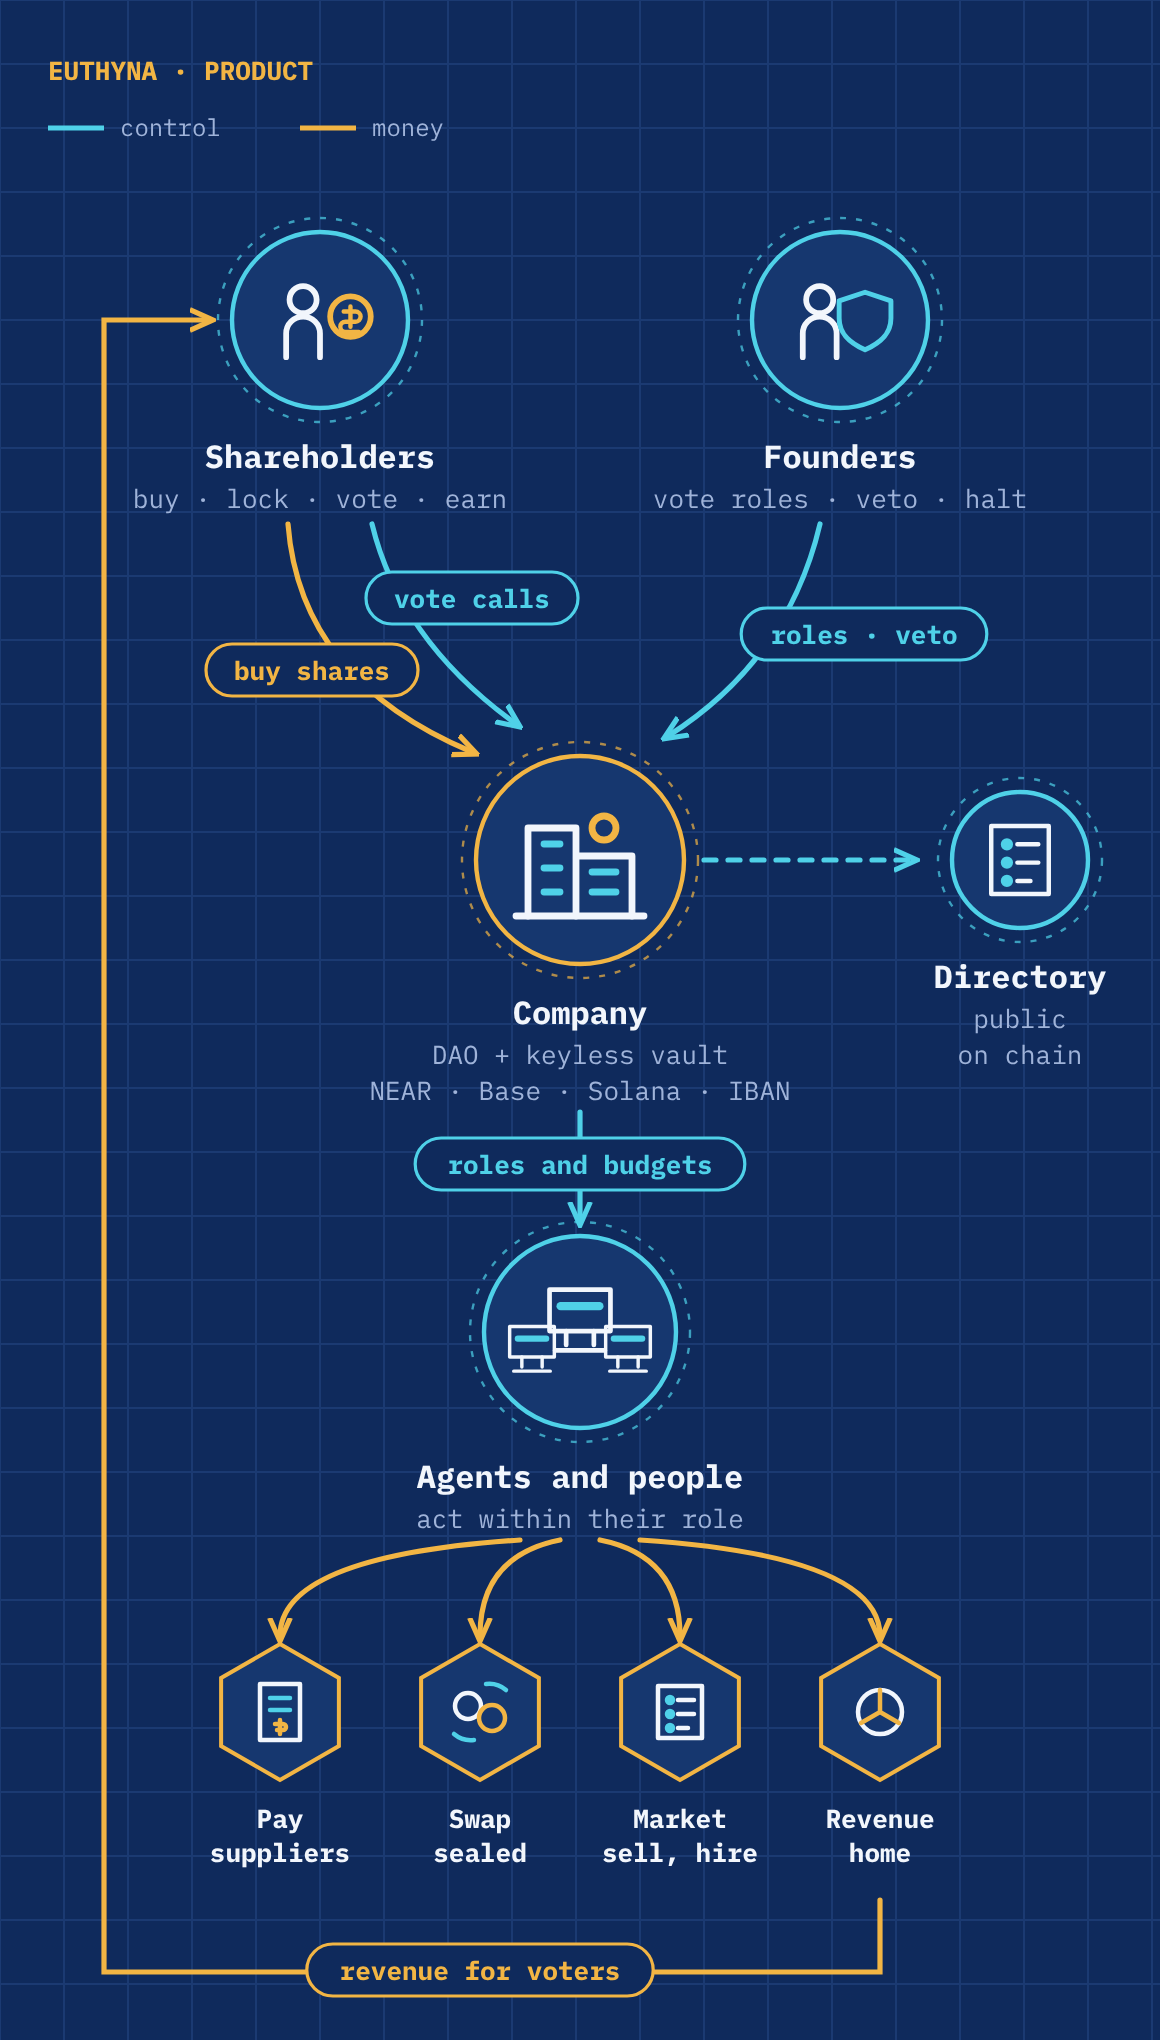
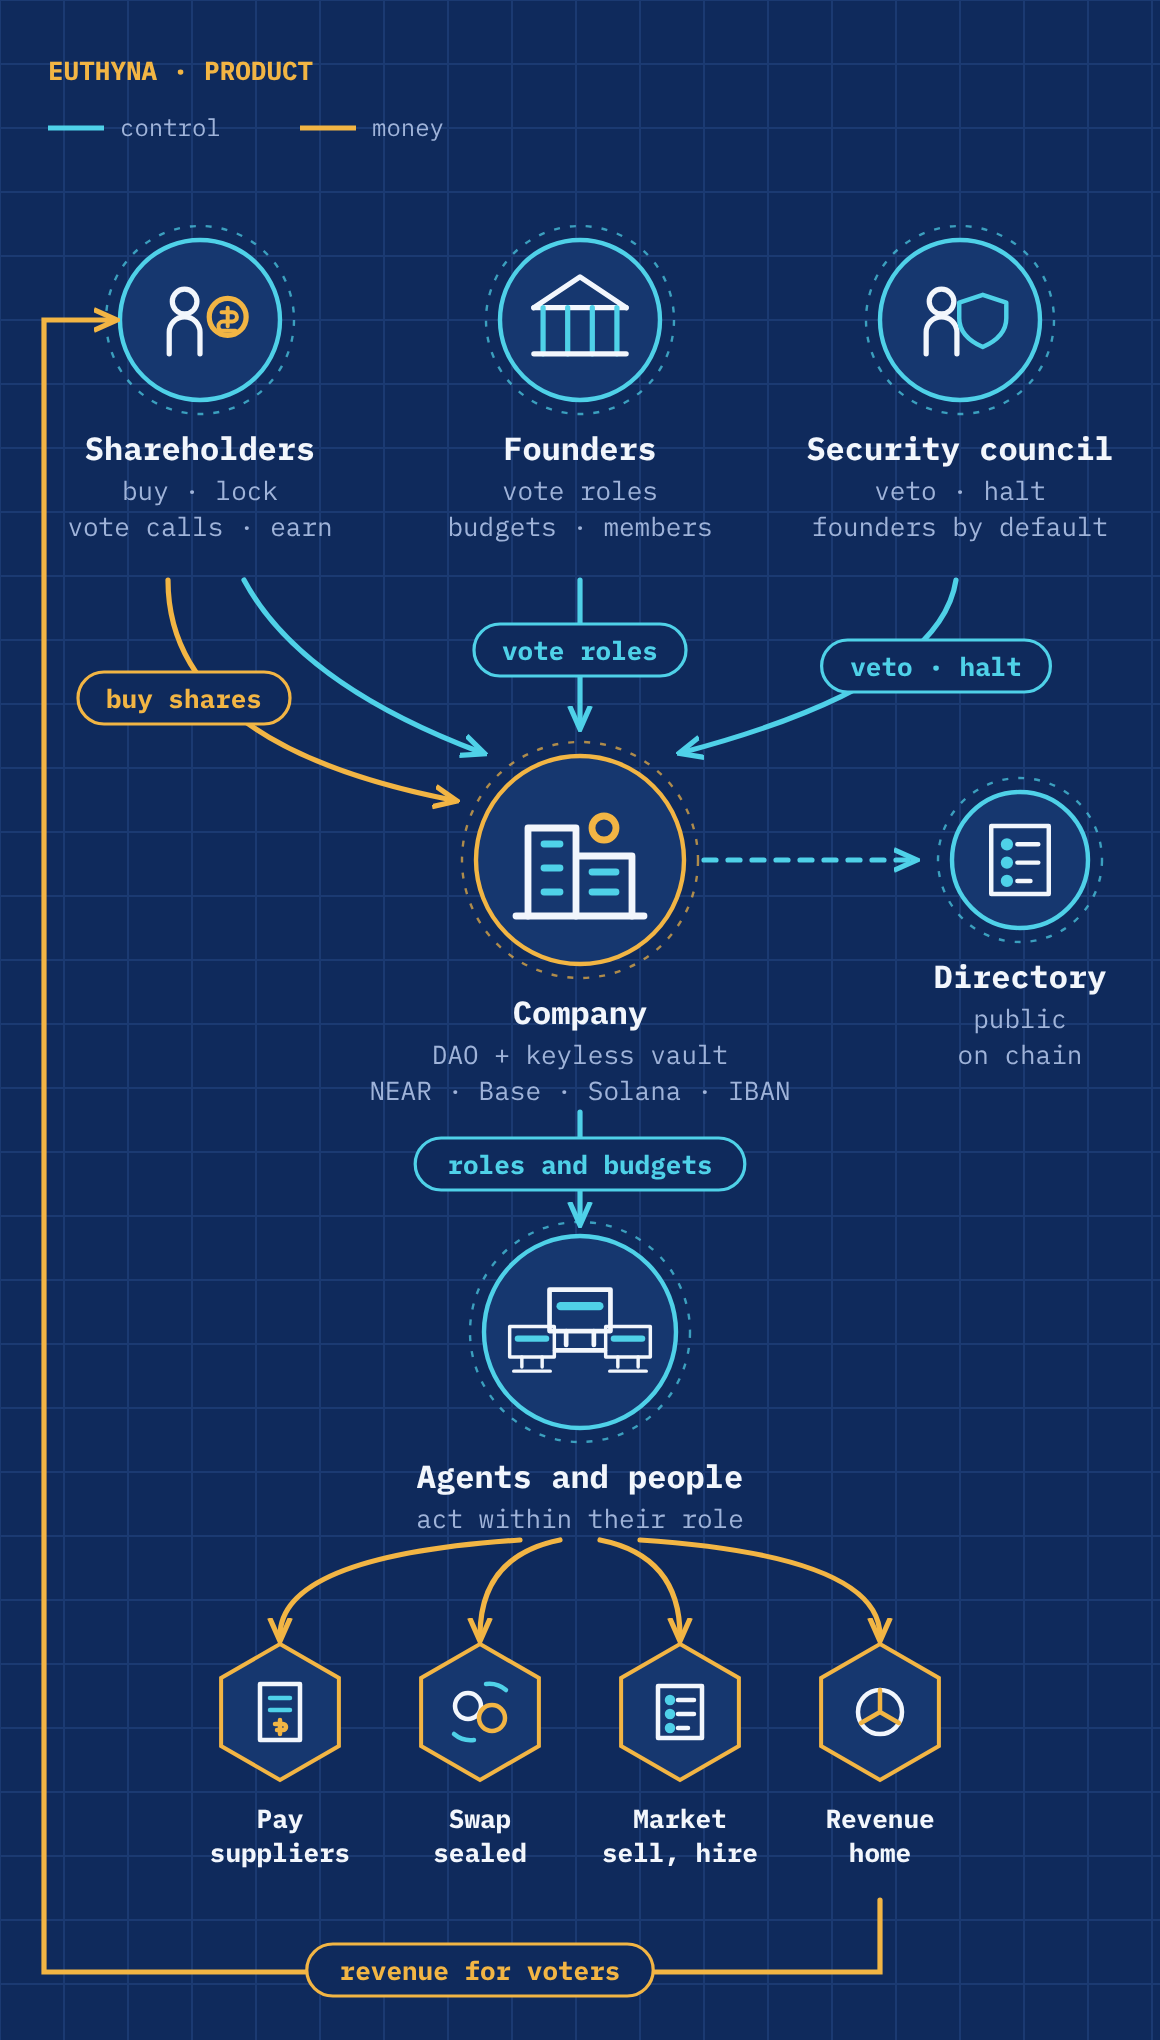
Security council: its own place in the product diagram and in Owners and money
The vault's council (veto, halt) is the founders by default but takes any list
the DAO votes (SetCouncil), e.g. an outside security team.

Changed region(s): [[0.031, 0.0926, 0.9621, 0.9882], [0.6207, 0.1544, 0.6517, 0.1853], [0.2793, 0.3706, 0.3103, 0.4015]]

diff --git a/docs/diagrams/blueprint.py b/docs/diagrams/blueprint.py
@@ -162,14 +162,16 @@ def product():
     cx = 290
     text(24, 40, 'EUTHYNA · PRODUCT', 13, GOLD, 'start', 700)
     legend(64, 580)
-    node(160, 160, 44, 'investors', 'Shareholders', 'buy · lock · vote · earn')
-    node(420, 160, 44, 'founders', 'Founders', 'vote roles · veto · halt')
-    arrow('M144 262 Q150 340 236 376', color=GOLD)
-    arrow('M186 262 Q200 320 258 362')
-    arrow('M410 262 Q394 330 334 368')
-    chip(156, 336, 'buy shares', GOLD)
-    chip(236, 300, 'vote calls')
-    chip(432, 318, 'roles · veto')
+    node(100, 160, 40, 'investors', 'Shareholders', 'buy · lock|vote calls · earn')
+    node(cx, 160, 40, 'dao', 'Founders', 'vote roles|budgets · members')
+    node(480, 160, 40, 'founders', 'Security council', 'veto · halt|founders by default')
+    arrow('M84 290 Q84 372 226 400', color=GOLD)
+    arrow('M122 290 Q150 342 240 376')
+    arrow(f'M{cx} 290 V362')
+    arrow('M478 290 Q470 342 342 376')
+    chip(92, 350, 'buy shares', GOLD)
+    chip(cx, 326, 'vote roles')
+    chip(468, 334, 'veto · halt')
     node(cx, 430, 52, 'company', 'Company', 'DAO + keyless vault|NEAR · Base · Solana · IBAN', ring=GOLD)
     arrow(f'M{cx+62} 430 H456', dash='6 6')
     node(510, 430, 34, 'directory', 'Directory', 'public|on chain')
@@ -181,7 +183,7 @@ def product():
         arrow(f'M{cx + (x-cx)*0.2} 770 Q{x} 778 {x} 818', color=GOLD)
     for x, ic, lab in zip(xs, ['invoice', 'swap', 'directory', 'share'], ['Pay|suppliers', 'Swap|sealed', 'Market|sell, hire', 'Revenue|home']):
         job(x, 856, ic, lab)
-    arrow('M440 950 V986 H52 V160 H104', color=GOLD)
+    arrow('M440 950 V986 H22 V160 H56', color=GOLD)
     chip(240, 986, 'revenue for voters', GOLD)
     return page(580, 1020)
 

diff --git a/README.md b/README.md
@@ -226,7 +226,7 @@ pnpm --filter @euthyna/api sealed watch order.json --key watcher.json
 
 ## Product architecture
 
-![Product architecture: shareholders buy and lock shares and vote company calls; founders vote roles, veto and halt; the company (a DAO and a keyless vault holding NEAR, Base, Solana and a euro IBAN) is listed in the public directory; agents and people act within their roles: pay suppliers, sealed swaps, the Market, and revenue sent home, shared with the shareholders who voted](./docs/diagrams/product.png)
+![Product architecture: shareholders buy and lock shares and vote company calls; founders vote roles, budgets and members; the security council (the founders by default) vetoes and halts; the company (a DAO and a keyless vault holding NEAR, Base, Solana and a euro IBAN) is listed in the public directory; agents and people act within their roles: pay suppliers, sealed swaps, the Market, and revenue sent home, shared with the shareholders who voted](./docs/diagrams/product.png)
 
 1. **Raise**: founders create the company; shareholders buy shares and the proceeds go to the treasury.
 2. **Hire**: the owners vote a role for each AI employee. The agent plugs in over MCP.
@@ -260,6 +260,10 @@ vote transactions.
 
 - **Founders** vote on everything by two thirds: roles, budgets, members, pause,
   and transactions outside any role (a multisig).
+- **Security council**: any one member vetoes a queued rule change or a held operation during its delay,
+  and halts every agent at once (only a vote resumes them). It is the founders by default; the vault
+  takes any list of accounts the DAO votes (`SetCouncil`), for instance an outside security team that
+  can stop the company's agents but never move its money. The console keeps it equal to the founders today.
 - **Shareholders** buy shares at a fixed price (proceeds go to the DAO) and lock
   them to vote on company calls and transfers, by majority of locked shares.
   Founders keep their veto on vault changes.
